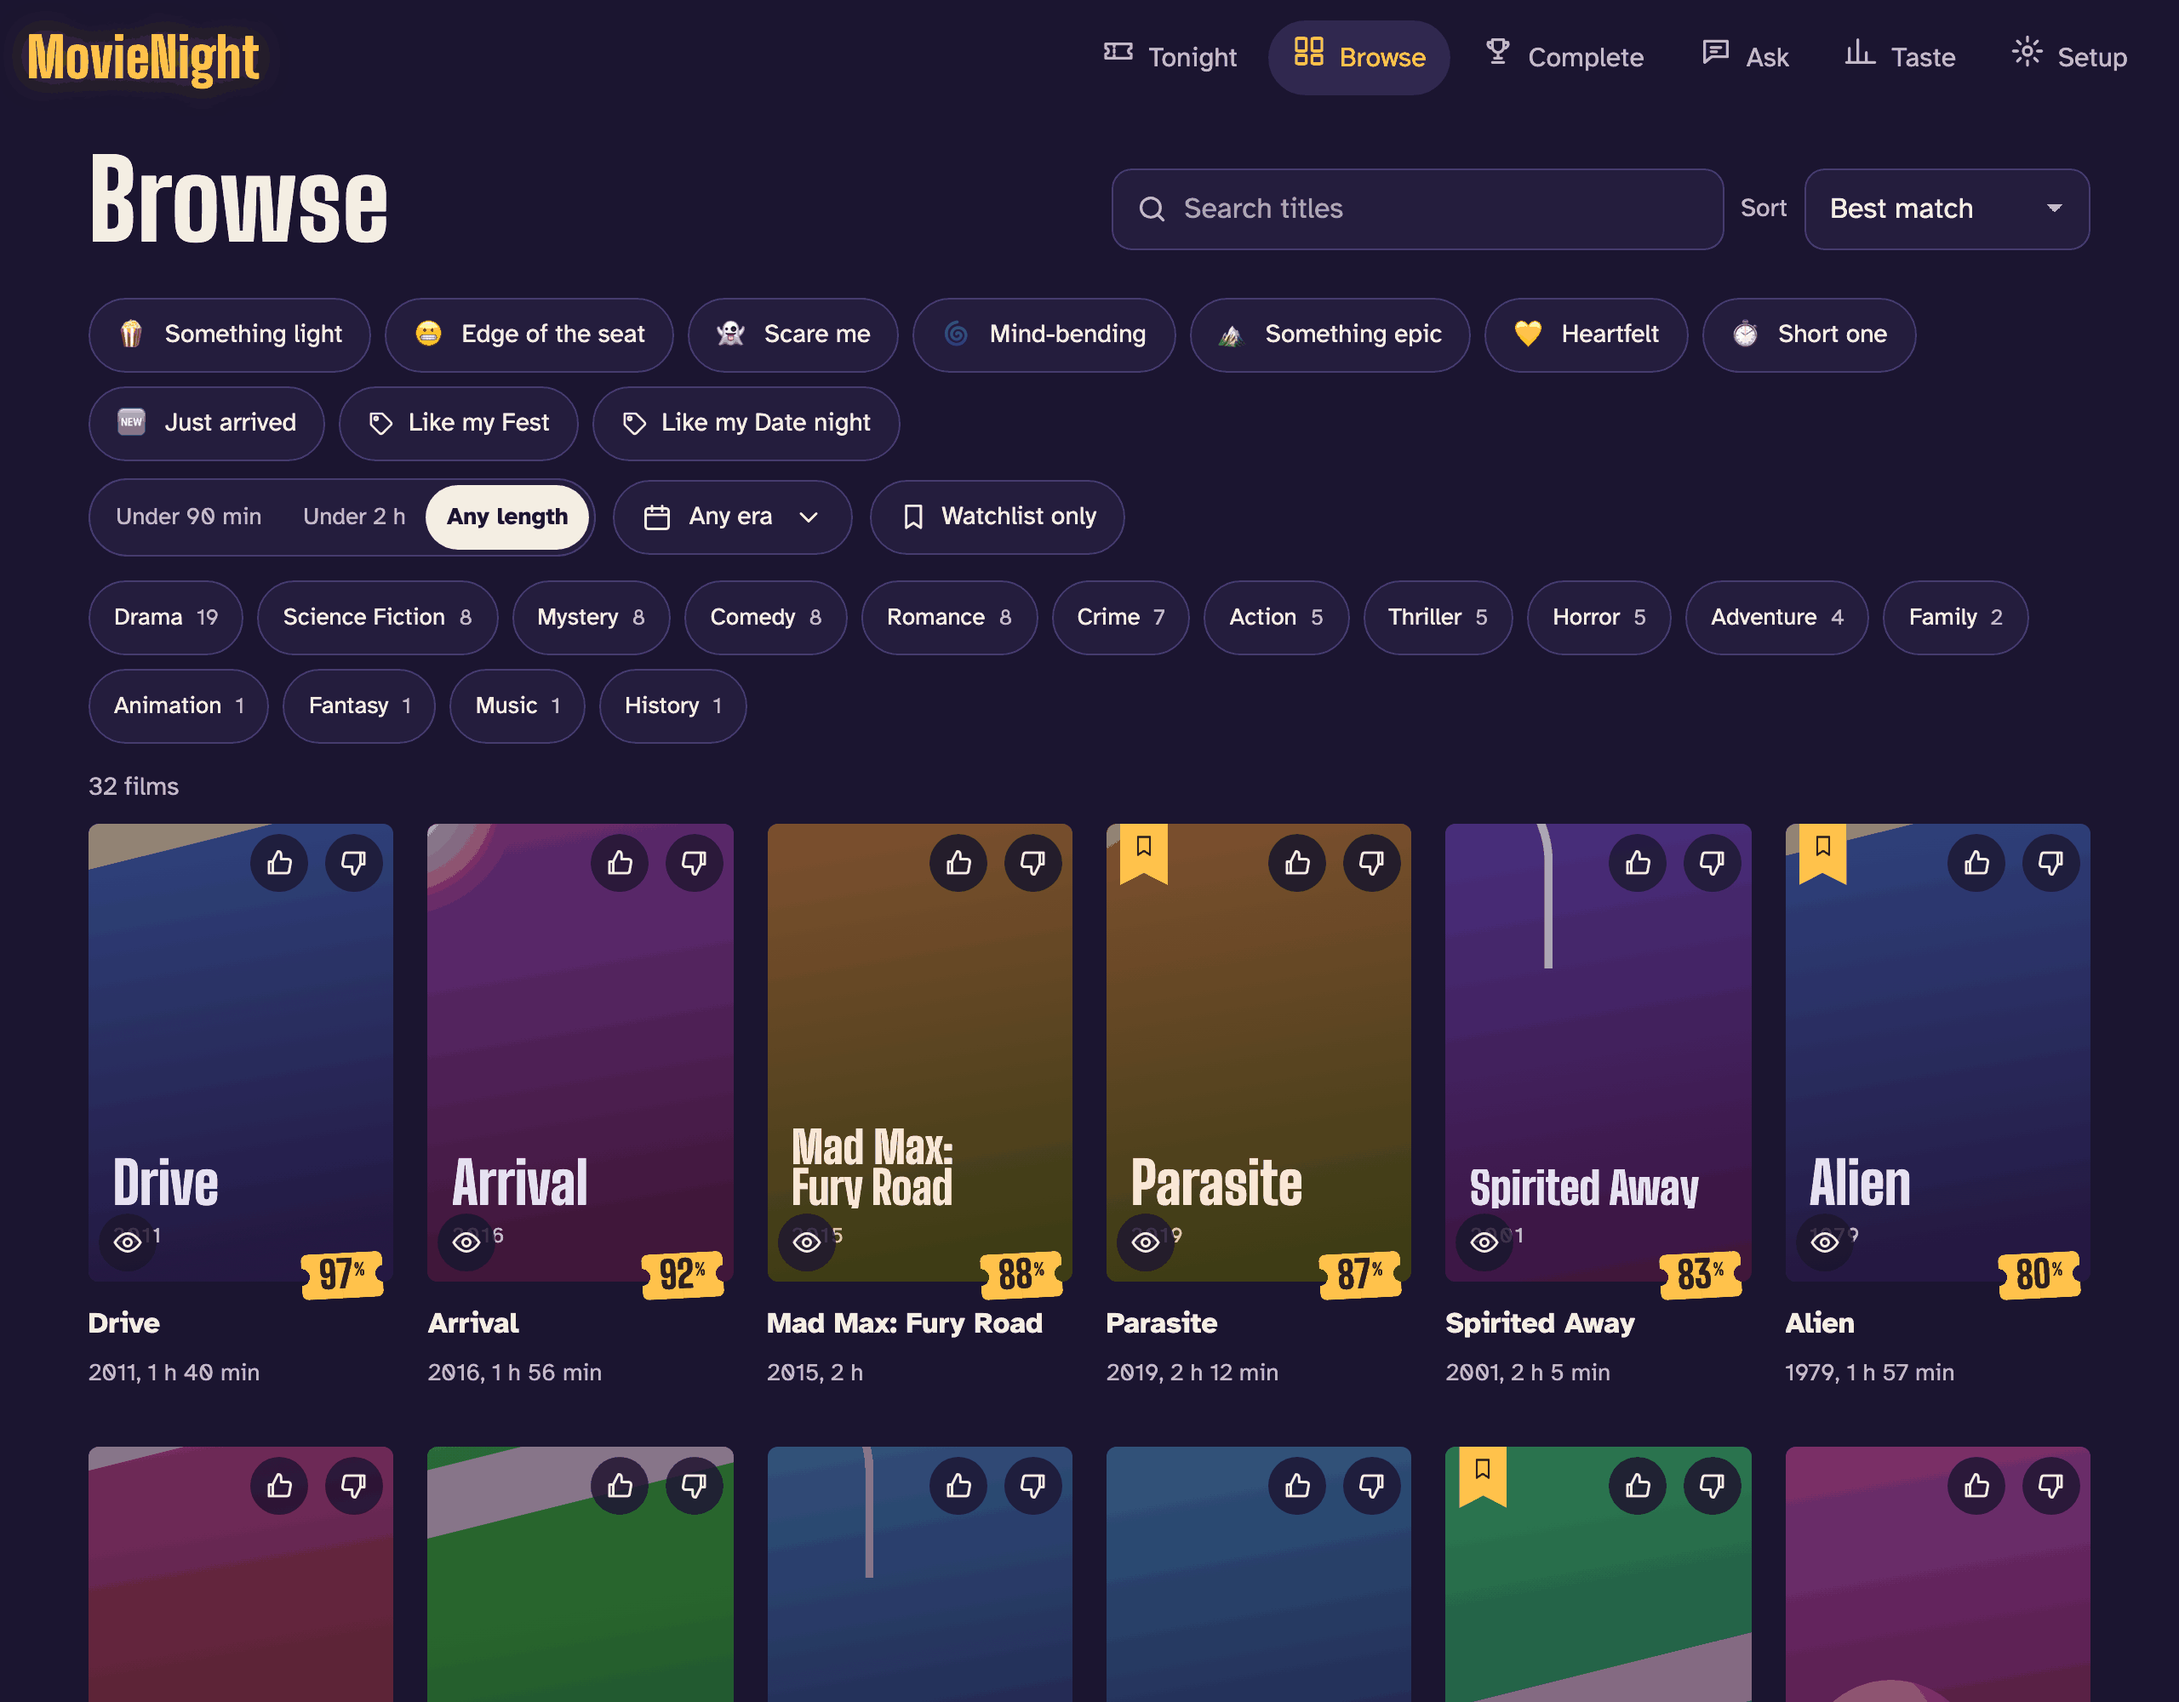
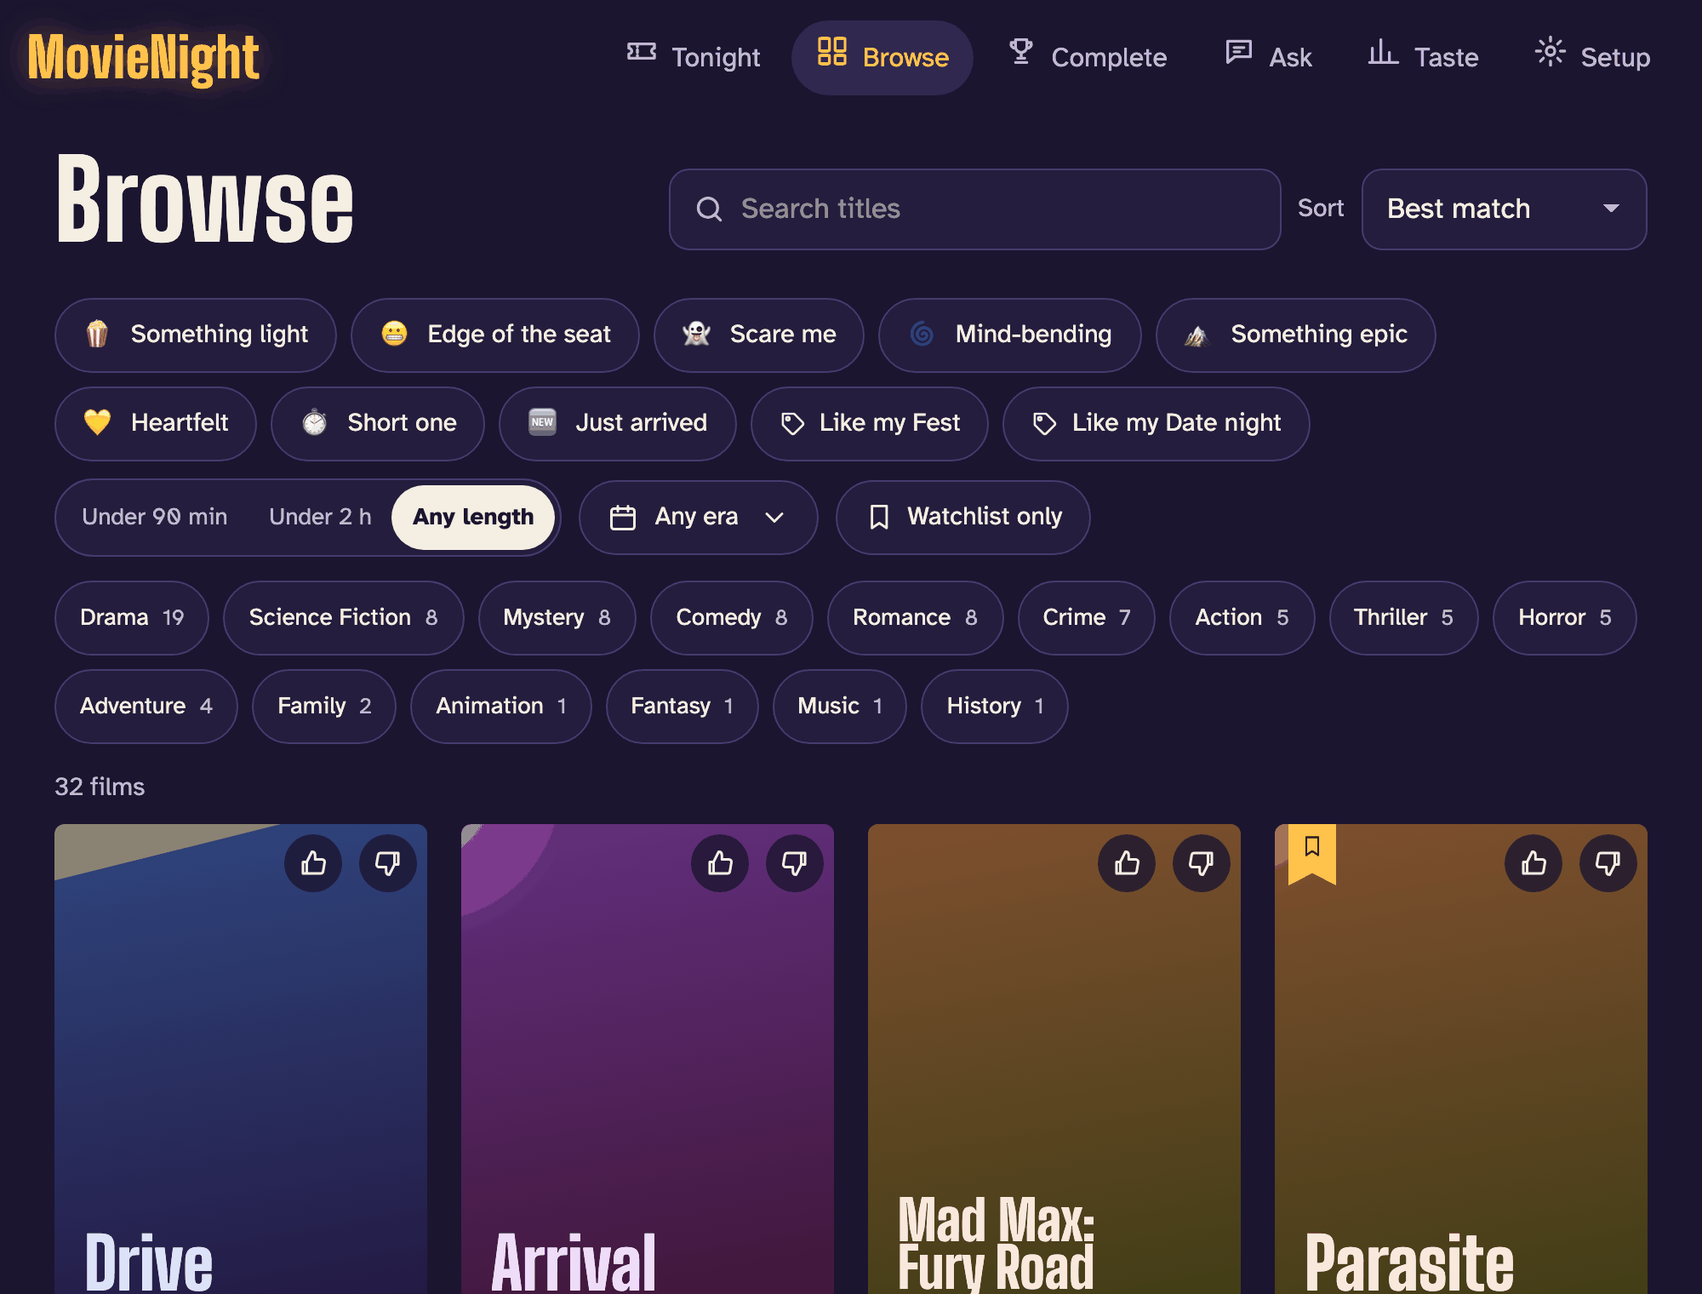
docs: polish README screenshots and add Completionist shot

diff --git a/README.md b/README.md
@@ -17,10 +17,11 @@
 
 <p align="center">
   <img src="docs/screenshots/tonight.png" width="520" alt="Tonight's pick with mood filters and a match score">
-  <img src="docs/screenshots/mobile.png" width="200" alt="MovieNight on a phone">
+  <img src="docs/screenshots/mobile.png" width="182" alt="MovieNight on a phone">
 </p>
 <p align="center">
-  <img src="docs/screenshots/browse.png" width="800" alt="Browse the library with genre and length filters">
+  <img src="docs/screenshots/browse.png" width="400" alt="Browse the library with genre and length filters">
+  <img src="docs/screenshots/complete.png" width="400" alt="Completionist: a saga with your progress and what is left to watch">
 </p>
 
 MovieNight ranks the movies available on your **Plex** servers (or your **Jellyfin** server, see
@@ -231,6 +232,10 @@ The RSS feed carries no tags, so new tags arrive with the next export.
 
 <details>
 <summary><b>🧩 Completionist</b></summary>
+
+<p align="center">
+  <img src="docs/screenshots/complete.png" width="640" alt="The Complete tab showing a saga with 5 of 11 films seen">
+</p>
 
 The **Complete** tab lists the sagas, franchises and series you have started (at least one film
 seen), the canonical lists you have dipped into, then the directors and actors you keep coming back to, with your progress ("4 of 9 seen") and what is left. Each film is **seen** (Letterboxd, played
